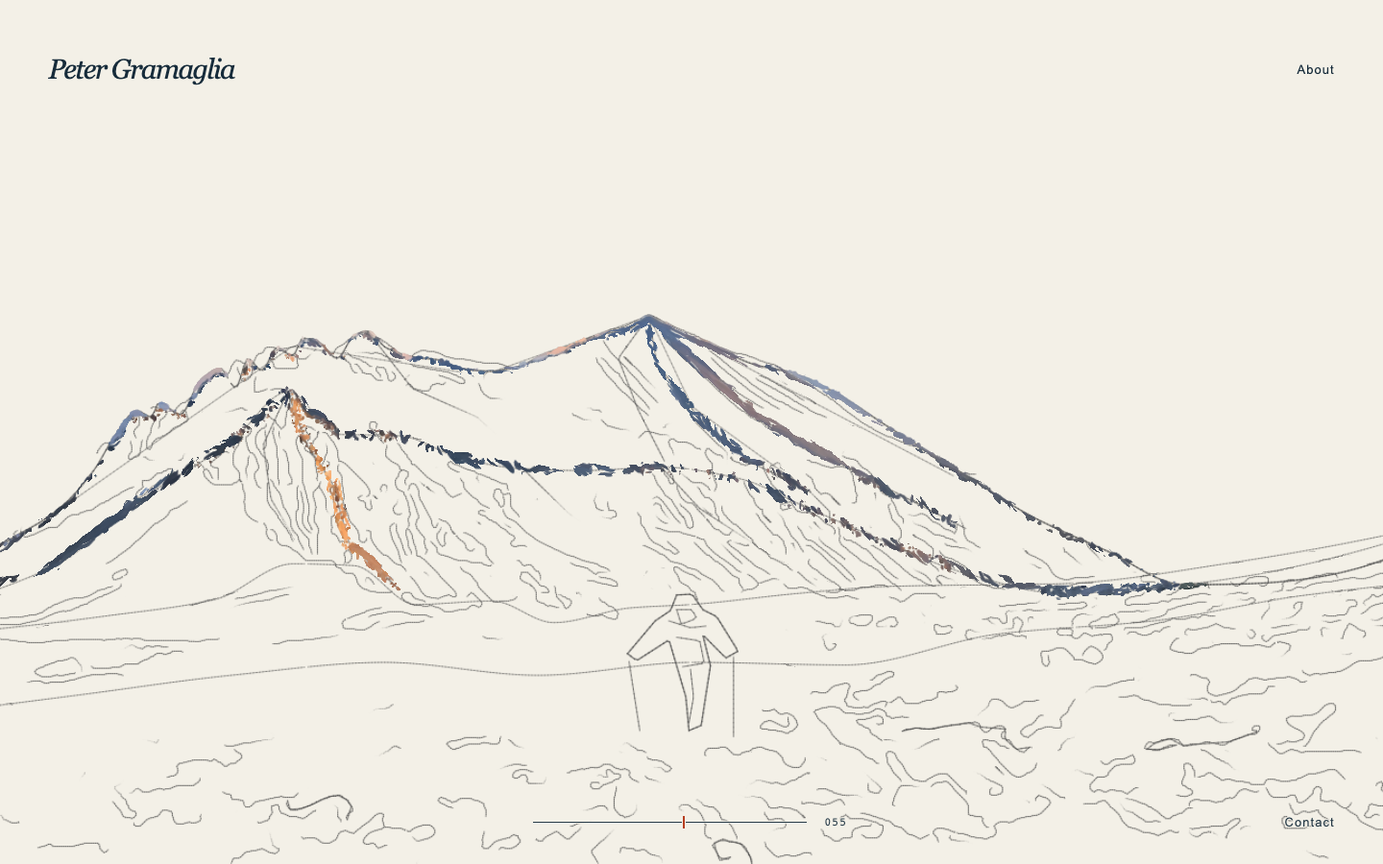
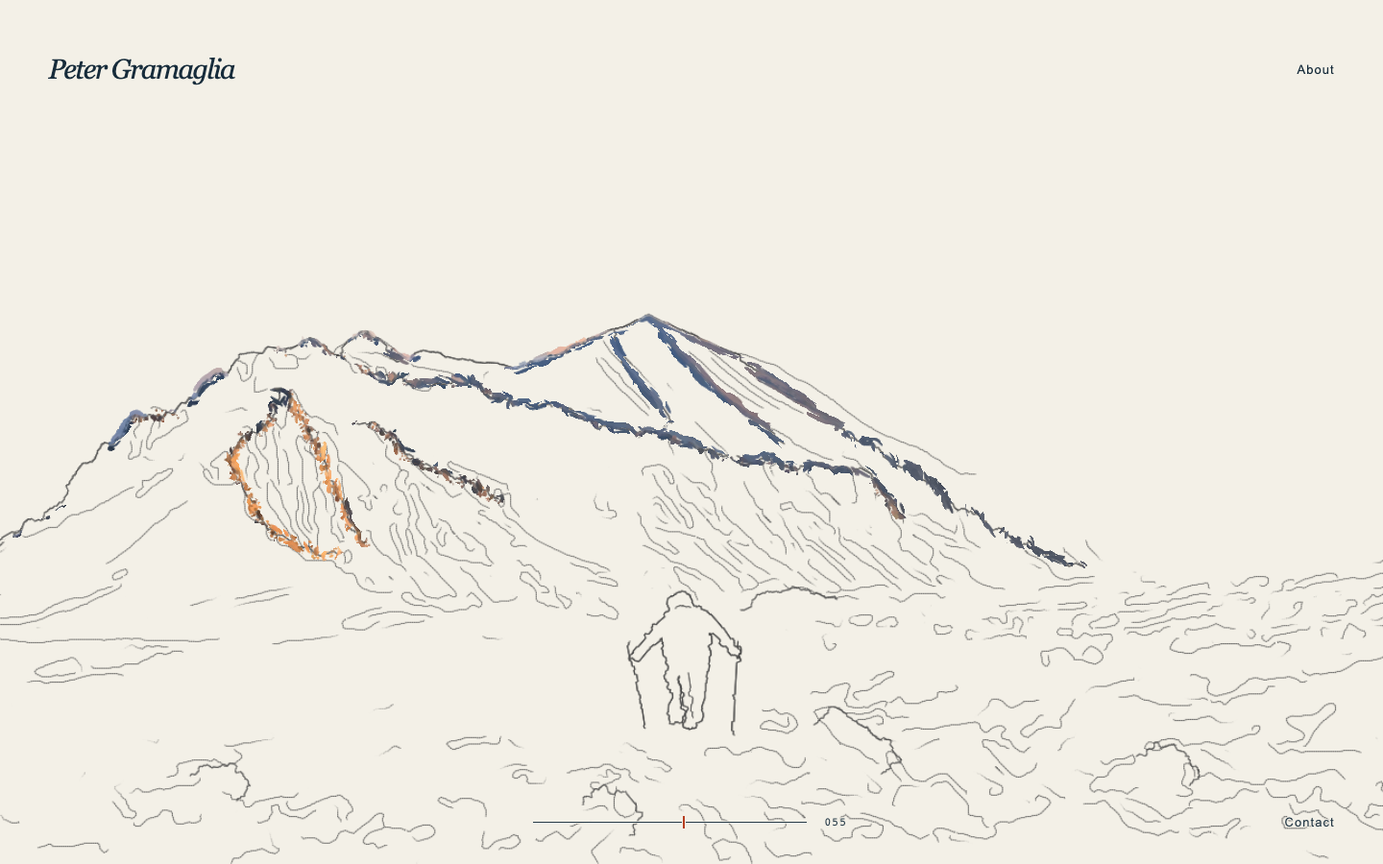
Trace structural drawing contours from the source photographs

diff --git a/tests/browser/landscape.spec.js b/tests/browser/landscape.spec.js
@@ -285,6 +285,38 @@ test('mountain framework precedes the figure and foreground, then detail and col
   }
 });
 
+test('early pigment follows photographic cliff edges instead of old construction bands', async ({ page }) => {
+  await page.setViewportSize({ width: 1440, height: 810 });
+  await page.emulateMedia({ reducedMotion: 'reduce' }); await ready(page);
+  const stages = await page.evaluate(() => {
+    const input = document.querySelector('#resolve'), canvas = document.querySelector('canvas');
+    const gl = canvas.getContext('webgl');
+    // Landmarks inspected on the 1672×941 source photograph, independently
+    // of the generated guides: real cliff tops/perimeters and two old guides
+    // that crossed featureless interiors. Never sample UI text or controls.
+    const landmarks = { cragTop: [743, 466], litCliffEdge: [353, 547],
+      oldCrossFaceLine: [700, 510], oldForegroundBand: [350, 734] };
+    return Object.fromEntries([550, 650].map((value) => {
+      input.value = String(value); input.dispatchEvent(new Event('input', { bubbles: true }));
+      const pixels = new Uint8Array(canvas.width * canvas.height * 4);
+      gl.readPixels(0, 0, canvas.width, canvas.height, gl.RGBA, gl.UNSIGNED_BYTE, pixels);
+      return [value, Object.fromEntries(Object.entries(landmarks).map(([name, [sx, sy]]) => {
+        const cx = Math.round(sx / 1672 * canvas.width), cy = Math.round(sy / 941 * canvas.height);
+        let pigment = 0;
+        for (let y = cy - 5; y <= cy + 5; y++) for (let x = cx - 5; x <= cx + 5; x++) {
+          const i = ((canvas.height - y - 1) * canvas.width + x) * 4;
+          pigment += Math.max(0, Math.abs(3 * pixels[i] - 4 * pixels[i + 1] + pixels[i + 2]) - 5);
+        }
+        return [name, pigment];
+      }))];
+    }));
+  });
+  expect(stages[550].cragTop).toBeGreaterThan(50);
+  expect(stages[550].litCliffEdge).toBeGreaterThan(50);
+  expect(stages[650].oldCrossFaceLine).toBe(0);
+  expect(stages[650].oldForegroundBand).toBe(0);
+});
+
 test('color follows ridges, human and foreground edges, then surface fill and sky', async ({ page }, testInfo) => {
   // Match the desktop artwork aspect ratio so source landmarks map directly
   // to GPU pixels, independently of the UI or responsive crop behavior.

diff --git a/scripts/prepare-strokes.py b/scripts/prepare-strokes.py
@@ -10,6 +10,7 @@ from pathlib import Path
 import importlib.util
 import json
 from asset_revisions import update_revisions
+from source_features import register_features, save_overlays
 import numpy as np
 from PIL import Image, ImageDraw
 from scipy.ndimage import gaussian_filter, sobel, distance_transform_edt, map_coordinates
@@ -83,7 +84,15 @@ def make(name):
     g=geo.GEOMETRY[name]
     size=(1440,810) if name=='desktop' else (900,1200)
     w,h=size
-    photo=Image.open(ROOT/f'assets/{name}/photo.webp').convert('RGB').resize(size,Image.Resampling.LANCZOS)
+    source_photo=Image.open(ROOT/f'assets/{name}/photo.webp').convert('RGB')
+    photo=source_photo.resize(size,Image.Resampling.LANCZOS)
+    registered=register_features(source_photo,name)
+    save_overlays(source_photo,registered,name)
+    feature_scale=np.array(size)/source_photo.size
+    features=[{**feature,'path':feature['path']*feature_scale} for feature in registered]
+    mountain_features=[f for f in features if f['kind'] in ('opening','mountain')]
+    foreground_features=[f for f in features if f['kind']=='foreground']
+    human_features=[f for f in features if f['kind']=='person']
     source=np.asarray(photo,dtype=float)
     source=gaussian_filter(source,(2.2,2.2,0))
     lum=source@np.array([.2126,.7152,.0722])
@@ -95,50 +104,22 @@ def make(name):
     plates[0].preserve_earliest=True
     xs=np.arange(w)/w
     skyline=geo.curve(g['skyline'],xs)*h
-    bounds=[skyline]+[geo.curve(r,xs)*h for r in g['ridges']]
-    bounds[-1]=np.maximum(bounds[-1],h*1.035)
     def sample(p):
         p=np.asarray(p);x=np.clip(p[:,0].astype(int),0,w-1);y=np.clip(p[:,1].astype(int),0,h-1)
         return source[y,x]
-    def points(norm):return np.asarray(norm)*np.array([w,h])
-    def subdivide(p,step=4):
-        p=np.asarray(p);u=np.r_[0,np.cumsum(np.linalg.norm(np.diff(p,axis=0),axis=1))]
-        q=np.linspace(0,u[-1],max(2,int(u[-1]/step)))
-        return np.column_stack((np.interp(q,u,p[:,0]),np.interp(q,u,p[:,1])))
-    # A few open construction gestures establish the mountain at zero. They
-    # intentionally omit the full skyline, foreground, clouds and climber.
-    # Subsequent paths add actual geographic structure over the first half.
-    rough = {
-      'desktop': [[(.08,.60),(.24,.40),(.35,.43)],[(.37,.43),(.472,.365),(.67,.55)],
-                  [(.472,.365),(.50,.47),(.57,.56)]],
-      'mobile': [[(.19,.39),(.439,.332),(.67,.42)],[(.439,.332),(.46,.42),(.58,.48)]]
-    }
-    for line in rough[name]:
-        plates[0].path(subdivide(points(line)),.83,INK,-.09,.045,.40)
-    # First establish only the skyline and principal mountain ridge. The
-    # nearer slope/foreground boundaries join the human in the second phase.
-    for i,line in enumerate(bounds[:-1]):
-        sections=5 if i==0 else 4
-        for section,idx in enumerate(np.array_split(np.arange(0,w,3),sections)):
-            p=np.column_stack((idx,line[idx]))
-            start=(.035+section*.021) if i==0 else (.08+section*.021 if i==1 else .25+(i-2)*.025+section*.013)
-            plates[0].path(p,1.05 if i==0 else .72,INK,start,.055,.76 if i==0 else .48)
-    for i,spur in enumerate(g['spurs']):
-        p=subdivide(points(spur))
-        major=[0,2,3]
-        start=.075+major.index(i)*.023 if i in major else .435+i*.014
-        plates[0].path(p,.85,INK,start,.075,.58)
-    # Cloud gestures are open contours following the prominent cloud bank.
-    clouds = {
-      'desktop': [[(.51,.342),(.56,.294),(.62,.255),(.72,.211),(.83,.169),(.96,.135)],
-                  [(.55,.30),(.66,.284),(.75,.267),(.87,.222),(.99,.181)],
-                  [(.68,.337),(.79,.326),(.9,.317),(1,.30)]],
-      'mobile': [[(.485,.311),(.53,.298),(.58,.276),(.66,.249),(.75,.228),(.85,.199),(1,.166)],
-                 [(.59,.267),(.69,.27),(.78,.257),(.9,.24),(1,.232)],
-                 [(.50,.337),(.61,.336),(.72,.326),(.82,.327),(.96,.315)]]
-    }
-    for i,line in enumerate(clouds[name]):
-        plates[0].path(subdivide(points(line)),.68,INK,.625+i*.028,.07,.38)
+    # Opening gestures are partials of the registered peak edges, not a
+    # separate approximate scaffold. All later structural marks use the same
+    # source paths, preserving crag teeth and disconnected occluding crests.
+    for feature in mountain_features:
+        p=feature['path']
+        if feature['id']=='peak_left':
+            plates[0].path(p[int(len(p)*.4):],.83,INK,-.09,.045,.40)
+        elif feature['id']=='peak_right':
+            plates[0].path(p[:int(len(p)*.3)],.83,INK,-.09,.045,.40)
+    for i,feature in enumerate(mountain_features):
+        p=feature['path'];parts=max(1,int(len(p)/170))
+        for section,indices in enumerate(np.array_split(np.arange(len(p)),parts)):
+            plates[0].path(p[indices],.95,INK,.035+i*.009+section*.012,.05,.67)
     # Trace selected long source edges as individual connected pencil paths.
     # Nonmaximum suppression selects contours; minimum arc length and a cap
     # per region discard photographic grain. These are new ridge/rock/cloud
@@ -204,34 +185,21 @@ def make(name):
         # Reduce pixel-scale stair stepping without erasing a rock's corners.
         p=gaussian_filter(p,(.65,0))[::2]
         plates[0].path(p,.72 if region=='cloud' else .82,INK,start,span,opacity)
-    # A few long source rock edges define foreground scale during phase two;
-    # leave the dense small-rock contour map for the detail phase above.
-    foreground_edges=[]
-    for lo,hi in [(0,.28),(.28,.53),(.53,.78),(.78,1.01)]:
-        candidates=[entry for entry in paths if entry[1]=='rock'
-                    and lo<=entry[2][:,0].mean()/w<hi
-                    and entry[2][:,1].mean()/h>.84]
-        if not candidates:continue
-        _,_,p,_=max(candidates,key=lambda entry:entry[0])
-        ids=np.linspace(0,len(p)-1,min(12,len(p))).astype(int)
-        foreground_edges.append(p[ids])
-    for i,p in enumerate(foreground_edges):
-        plates[0].path(subdivide(p),.95,INK,.265+i*.02,.065,.62)
-    # Phase two establishes the rough full human silhouette and both poles;
-    # facial, clothing and inner-leg detail waits for the detail phase.
-    p=subdivide(points(g['person']+[g['person'][0]]))
-    plates[0].path(p,1.05,INK,.235,.095,.78)
-    person_details={
-      'desktop': [[(.49,.705),(.5,.705),(.503,.715),(.493,.722),(.49,.705)],
-                   [(.485,.718),(.499,.726),(.509,.724)],[(.49,.737),(.505,.741),(.508,.767),(.494,.771)],
-                   [(.499,.774),(.501,.806),(.498,.836)],[(.459,.765),(.466,.845)],[(.527,.76),(.527,.852)]],
-      'mobile': [[(.479,.649),(.498,.649),(.502,.66),(.488,.671),(.479,.649)],
-                  [(.47,.671),(.49,.688),(.516,.679)],[(.479,.692),(.514,.697),(.516,.719),(.485,.72)],
-                  [(.5,.723),(.505,.75),(.499,.777)],[(.415,.705),(.438,.794)],[(.563,.707),(.56,.787)]]
-    }
-    for i,line in enumerate(person_details[name]):
-        start=.27+(i-4)*.025 if i>=4 else .435+i*.018
-        plates[0].path(subdivide(points(line)),.8,INK,start,.065 if i>=4 else .05,.66)
+    # Background construction also follows actual source cloud edges. The
+    # old smooth cloud-bank diagonals are not structural features in the photo.
+    cloud_candidates=[entry for entry in paths if entry[1]=='cloud'
+                      and entry[2][:,1].mean()<h*.35 and entry[2][:,0].mean()>w*.40]
+    cloud_candidates=sorted(cloud_candidates,key=lambda entry:len(entry[2]),reverse=True)[:3]
+    for i,(_,_,p,_) in enumerate(cloud_candidates):
+        plates[0].path(p,.68,INK,.625+i*.028,.07,.38)
+    # Phase two adds only actual local rock/slope edges and the registered
+    # climber silhouette/poles. No full-width foreground guide crosses them.
+    for i,feature in enumerate(foreground_features):
+        plates[0].path(feature['path'],.95,INK,.26+i*.018,.06,.62)
+    for i,feature in enumerate(human_features):
+        plates[0].path(feature['path'],1.05,INK,.235+i*.028,.095 if i==0 else .065,.78)
+    for i,feature in enumerate(f for f in features if f['kind']=='person_detail'):
+        plates[0].path(feature['path'],.8,INK,.435+i*.018,.05,.66)
     print(name,'structural paths',counts,flush=True)
     # Keep the approved distant-land orientation field independent of the
     # closer, finer photo structure used for the new terrain brushes.
@@ -288,17 +256,16 @@ def make(name):
         mask=Image.new('L',size);draw=ImageDraw.Draw(mask)
         for line in lines:draw.line([tuple(q) for q in line],fill=255,width=1)
         return distance_transform_edt(np.asarray(mask)==0)
-    ridge_lines=[points(g['skyline']),points(g['ridges'][0])]
-    ridge_lines.extend(points(g['spurs'][i]) for i in [0,2,3])
+    ridge_lines=[f['path'] for f in mountain_features]
     ridge_distance=line_distance(ridge_lines)
-    figure_lines=[points(g['person']+[g['person'][0]])]
-    figure_lines.extend(points(line) for line in person_details[name][-2:])
+    figure_lines=[f['path'] for f in human_features]
     figure_distance=line_distance(figure_lines)
     figure_interior_mask=Image.new('L',size)
-    ImageDraw.Draw(figure_interior_mask).polygon([tuple(q) for q in points(g['person'])],fill=255)
+    silhouette=next(f['path'] for f in human_features if f['id']=='human')
+    ImageDraw.Draw(figure_interior_mask).polygon([tuple(q) for q in silhouette],fill=255)
     figure_interior=np.asarray(figure_interior_mask)>0
-    foreground_lines=[np.column_stack((np.arange(w)[::3],line[::3])) for line in bounds[2:-1]]
-    foreground_distance=line_distance(foreground_lines+foreground_edges)
+    foreground_lines=[f['path'] for f in foreground_features]
+    foreground_distance=line_distance(foreground_lines)
     def stroke_jitter(p):
         x,y=np.mean(p,axis=0)
         return (np.sin(x*12.9898+y*78.233)*43758.5453)%1

diff --git a/scripts/source_features.py b/scripts/source_features.py
@@ -1,0 +1,118 @@
+"""Photo-registered structural paths, independent of the paint partition.
+
+Anchors are in the upright source photograph's pixel coordinates. They identify
+separate visible features, never interpolated full-scene contour bands. A narrow
+normal corridor follows the strongest coherent source edge between anchors.
+"""
+import json
+from pathlib import Path
+import numpy as np
+from PIL import Image, ImageDraw
+from scipy.ndimage import gaussian_filter, sobel, map_coordinates
+
+# id, kind, anchor pixels; mountain entries tagged opening seed the zero state.
+FEATURES={
+'desktop': {'size':(1672,941),'paths':[
+ ('west_skyline','mountain',[(0,631),(93,577),(142,554),(184,500),(232,451),(260,453),(299,427),(324,402),(341,392),(358,381),(388,385),(420,369),(451,391),(479,362),(514,393),(540,383),(600,399),(625,401),(655,393)]),
+ ('peak_left','opening',[(655,393),(686,381),(706,376),(726,363),(747,360),(766,351),(790,344)]),
+ ('peak_right','opening',[(790,344),(819,360),(845,373),(866,382),(896,397),(926,411),(956,433),(995,464),(1040,490),(1085,521),(1120,547),(1166,575),(1214,597),(1260,618)]),
+ ('peak_shadow_rib','mountain',[(749,360),(760,389),(779,414),(798,439),(812,460)]),
+ ('peak_light_rib','mountain',[(794,350),(819,380),(847,411),(879,439),(908,462),(937,482)]),
+ ('west_crag_crest','mountain',[(480,396),(508,411),(541,418),(567,419),(594,412),(615,429),(642,440),(663,443),(684,440)]),
+ ('middle_crag_crest','mountain',[(684,440),(711,453),(743,466),(769,470),(804,471),(827,481),(852,489),(875,492)]),
+ ('east_crag_crest','mountain',[(885,495),(903,501),(914,495),(928,500),(941,509),(954,507),(970,503),(984,511),(1004,509),(1018,513),(1034,522),(1048,536),(1068,556)]),
+ ('lit_cliff_west_edge','mountain',[(391,429),(381,453),(365,468),(347,477),(333,490),(338,516),(353,547),(374,570),(402,591),(430,603),(450,601)]),
+ ('lit_cliff_east_edge','mountain',[(393,430),(406,447),(418,465),(430,487),(440,514),(453,544),(463,576),(473,595)]),
+ ('near_crag_crest','mountain',[(472,464),(489,460),(506,474),(524,492),(544,503),(562,513),(581,518),(604,533),(626,542)]),
+ ('behind_hiker_rock','foreground',[(887,660),(916,646),(944,640),(971,647),(993,655)]),
+ ('left_stone','foreground',[(289,843),(309,832),(336,835),(355,855),(345,874)]),
+ ('center_stone','foreground',[(717,876),(739,860),(762,865),(781,888),(769,910)]),
+ ('right_boulder','foreground',[(968,788),(989,775),(1017,789),(1048,806),(1065,827),(1043,844)]),
+ ('far_right_stone','foreground',[(1320,824),(1342,809),(1370,817),(1391,838),(1381,857)]),
+ ('human','person',[(813,648),(823,645),(835,647),(842,660),(855,665),(868,680),(882,701),(890,708),(886,718),(878,714),(863,697),(854,689),(856,719),(852,741),(852,760),(845,780),(841,793),(832,795),(826,789),(830,776),(828,755),(823,736),(822,756),(826,775),(822,786),(814,786),(812,778),(813,757),(809,738),(806,718),(804,695),(788,708),(779,719),(769,717),(768,710),(782,694),(797,675),(811,663),(813,648)]),
+ ('left_pole','person',[(766,699),(774,741),(782,793)]),
+ ('right_pole','person',[(887,698),(884,751),(882,800)]),
+ ('hood_brim','person_detail',[(817,660),(826,657),(835,660)]),
+ ('inner_leg','person_detail',[(832,732),(836,758),(834,781)]),
+]},
+'mobile': {'size':(1200,1600),'paths':[
+ ('west_skyline','mountain',[(0,556),(17,548),(38,563),(68,575),(100,593),(120,586),(145,583),(174,595),(205,605),(239,618),(268,626),(297,621)]),
+ ('peak_left','opening',[(297,621),(337,604),(371,596),(404,581),(438,568),(469,558),(500,549),(527,531)]),
+ ('peak_right','opening',[(527,531),(558,548),(589,559),(622,577),(663,590),(705,609),(744,630),(784,655),(827,679),(867,704),(915,738),(962,759),(1015,787),(1061,810)]),
+ ('peak_shadow_rib','mountain',[(465,559),(477,593),(494,621),(522,657),(554,688),(572,713)]),
+ ('peak_light_rib','mountain',[(532,541),(550,576),(582,613),(614,648),(648,680),(685,713),(718,737)]),
+ ('west_crag_crest','mountain',[(0,618),(29,626),(52,625),(78,643),(108,648),(138,636),(164,638),(185,649),(213,638),(235,653),(259,681),(282,691)]),
+ ('middle_crag_crest','mountain',[(282,691),(313,688),(339,698),(361,689),(385,716),(414,726),(442,729),(464,731),(489,727),(514,737),(544,736),(569,749),(597,755)]),
+ ('east_crag_crest','mountain',[(597,755),(621,771),(649,775),(675,788),(701,781),(726,782),(751,793),(773,796),(800,789),(823,798),(847,807),(872,805),(893,824),(917,844),(942,863)]),
+ ('lit_cliff_edge','mountain',[(1,696),(24,711),(43,736),(65,751),(81,774),(100,791),(113,817),(129,842),(142,872),(153,905),(161,935),(180,950)]),
+ ('near_crag_crest','mountain',[(0,813),(25,826),(48,845),(73,857),(96,874),(118,885),(143,889),(167,904),(190,908),(217,930),(241,944)]),
+ ('behind_hiker_rock','foreground',[(636,1025),(668,1011),(703,996),(735,991),(766,1001)]),
+ ('left_stone','foreground',[(220,1353),(250,1330),(282,1336),(309,1359),(314,1381)]),
+ ('center_stone','foreground',[(381,1450),(416,1412),(445,1416),(468,1456),(449,1490)]),
+ ('right_boulder','foreground',[(796,1255),(827,1232),(857,1238),(890,1267),(924,1294),(945,1327),(934,1352)]),
+ ('right_stone','foreground',[(1010,1378),(1040,1358),(1075,1367),(1103,1396),(1091,1422)]),
+ ('human','person',[(562,1030),(565,1021),(580,1016),(596,1018),(604,1034),(616,1040),(637,1054),(654,1077),(671,1102),(681,1112),(686,1124),(678,1133),(666,1127),(656,1107),(639,1091),(626,1084),(630,1120),(628,1154),(625,1183),(618,1219),(615,1241),(627,1257),(607,1258),(596,1250),(585,1255),(572,1250),(581,1226),(580,1196),(573,1173),(568,1142),(564,1117),(556,1096),(538,1108),(520,1124),(507,1134),(497,1132),(491,1121),(498,1110),(521,1081),(547,1055),(559,1044),(562,1030)]),
+ ('left_pole','person',[(494,1097),(506,1172),(525,1262)]),
+ ('right_pole','person',[(677,1095),(677,1167),(672,1260)]),
+ ('hood_brim','person_detail',[(570,1039),(584,1035),(598,1038)]),
+ ('inner_leg','person_detail',[(597,1158),(599,1194),(594,1232)]),
+]}}
+
+
+def register_features(photo,name):
+    """Follow source edges within a small corridor around each visual anchor."""
+    w,h=photo.size;spec=FEATURES[name];scale=np.array([w,h])/spec['size']
+    tone=gaussian_filter(np.asarray(photo,dtype=float)@np.array([.2126,.7152,.0722]),.65)
+    gx=sobel(tone,axis=1)/8;gy=sobel(tone,axis=0)/8
+    features=[]
+    for label,kind,anchors in spec['paths']:
+        anchors=np.asarray(anchors,dtype=float)*scale
+        arc=np.r_[0,np.cumsum(np.linalg.norm(np.diff(anchors,axis=0),axis=1))]
+        u=np.linspace(0,arc[-1],max(3,int(arc[-1])))
+        base=np.column_stack([np.interp(u,arc,anchors[:,i]) for i in range(2)])
+        tangent=gaussian_filter(np.gradient(base,axis=0),(1.1,0))
+        tangent/=np.maximum(np.linalg.norm(tangent,axis=1)[:,None],1e-8)
+        normal=np.column_stack([-tangent[:,1],tangent[:,0]])
+        radius=3 if kind.startswith('person') else 6
+        offsets=np.arange(-radius,radius+1,dtype=float)
+        samples=base[:,None,:]+normal[:,None,:]*offsets[None,:,None]
+        coords=[samples[:,:,1],samples[:,:,0]]
+        edge=np.abs(map_coordinates(gx,coords,order=1,mode='nearest')*normal[:,0,None]+
+                    map_coordinates(gy,coords,order=1,mode='nearest')*normal[:,1,None])
+        cost=-1.6*np.log1p(edge)+.035*offsets[None,:]**2
+        # Coherent normal offsets retain jagged rock edges without jumping to
+        # unrelated nearby texture. Each feature terminates at its own anchors.
+        n,m=cost.shape;back=np.zeros((n,m),dtype=np.int16);previous=cost[0].copy()
+        transitions=.22*(offsets[:,None]-offsets[None,:])**2
+        transitions[np.abs(offsets[:,None]-offsets[None,:])>2]=1e6
+        for j in range(1,n):
+            candidates=previous[:,None]+transitions
+            back[j]=np.argmin(candidates,axis=0)
+            previous=cost[j]+np.min(candidates,axis=0)
+        choices=np.empty(n,dtype=int);choices[-1]=np.argmin(previous)
+        for j in range(n-1,0,-1):choices[j-1]=back[j,choices[j]]
+        path=samples[np.arange(n),choices]
+        if np.linalg.norm(anchors[0]-anchors[-1])<1:path[-1]=path[0]
+        features.append({'id':label,'kind':kind,'path':path,
+                         'mean_gradient':float(np.mean(edge[np.arange(n),choices]))})
+    return features
+
+
+def save_overlays(photo,features,name,directory='/tmp/resolve-source-features'):
+    directory=Path(directory);directory.mkdir(parents=True,exist_ok=True)
+    overlay=photo.convert('RGB').copy();draw=ImageDraw.Draw(overlay)
+    colors={'opening':(255,100,60),'mountain':(255,100,60),'foreground':(70,255,240),
+            'person':(130,255,80),'person_detail':(255,240,80)}
+    for i,feature in enumerate(features):
+        p=feature['path'];draw.line([tuple(q) for q in p],fill=colors[feature['kind']],width=1)
+        q=p[len(p)//2];draw.text(tuple(q+2),str(i),fill='white',stroke_width=1,stroke_fill='black')
+    overlay.save(directory/f'{name}-features-overlay.png')
+    photo.save(directory/f'{name}-source.png')
+    (directory/f'{name}-features.json').write_text(json.dumps([
+        {**f,'path':f['path'].round(2).tolist()} for f in features],indent=2)+'\n')
+
+if __name__=='__main__':
+    root=Path(__file__).resolve().parents[1]
+    for name in FEATURES:
+        photo=Image.open(root/f'assets/{name}/photo.webp').convert('RGB')
+        save_overlays(photo,register_features(photo,name),name)

diff --git a/docs/review-notes.md b/docs/review-notes.md
@@ -108,3 +108,11 @@ The user's 65-percent screenshot showed the previous patch-based reveal while fr
 Added a checkout-rooted preview server that sends no-store for every resource and ignores conditional validators, preventing stale 304 reuse after same-second rewrites. The manifest now records per-file content hashes; the renderer and initial finished-image fallbacks use revisioned URLs, and the manifest is fetched without caching. The generator updates revisions after writing the complete artwork; a standalone updater supports other authoring paths. Static checks reject stale hashes. Already open pages still require reloading to replace decoded canvas textures.
 
 An independent Astra high integration review approved the fix and independently checked all fourteen asset hashes, conditional HTTP behavior, generator integration, and failure routes. Validation: 10 Node tests and 19 Chrome browser tests pass, including revisioned asset requests, reload behavior, old conditional requests, GPU color hierarchy, and fallback paths. A separate fresh browser capture at http://localhost:4173, 1440×790, shows colored ridge, human, and foreground outlines at 65 percent with open interiors. Drawing image bytes were unchanged by this delivery fix.
+
+## Source-registered prominent contours
+
+Replaced the loosely authored structural guides with individually traced photographic features. Old full-width foreground bands and smooth cross-face mountain curves were displaced from real edges. Native-photo anchors plus a narrow coherent edge search now follow actual crag crests, peak channels, cliff light/shadow boundaries, local boulders, and the climber. Pencil structure and early color timing share the same scaled paths. The opening sketch and initial cloud contours also use source features.
+
+Independent Astra high visual review approved both native-photo overlays and the final desktop/portrait browser stages. Independent rendering review approved coordinate scaling, closed silhouettes, shared pencil/color paths, valid timing, and endpoint preservation. Source photographs, colored RGBA plates, and finished paintings are byte-identical to the preceding revision. Only pencil artwork and timing maps changed, with manifest revisions refreshed.
+
+Validation: 10 Node tests and 20 Chrome browser tests pass. A new GPU regression samples independently identified photographic cliff landmarks and locations of the old invented bands. It fails against the preceding assets (no early pigment on the actual cliff crest) and passes with the correction: real edges have early color while misplaced bands remain unpainted. Existing drawing-order, mobile, fallback, orientation, cache, endpoint, and interaction checks pass. Fresh source-aspect captures and the native overlays were inspected together at 40/55/65 percent. One auxiliary capture timed out while resizing alongside other browser work; a focused repeat completed with the mobile renderer ready, and the full responsive tests passed.

diff --git a/README.md b/README.md
@@ -41,6 +41,7 @@ The [stroke revision](docs/stroke-revision.md) describes the current drawing beh
 - `src/interaction.js`, `src/main.js`: direct manipulation, frame-independent damping, lifecycle, reduced motion.
 - `src/about.js`: progressive native modal; biography remains ordinary HTML without JavaScript.
 - `assets/`: three timed stroke layers per composition, finished-drawing fallbacks, source photographs, manifest, and favicon.
+- `scripts/source_features.py`: separate photographic crest, cliff, boulder, and human contours, registered to source edges for the opening sketch and first colored strokes.
 
 There are two aspect-specific drawing sets. The desktop composition uses Peter's approved AI-expanded panorama, with the left ridge corrected against a second reference photograph. The mobile drawing is based on the original portrait photograph. Generated edges are disclosed in About. Contour-like marks are an artistic drawing, not elevation data. No coordinates, EXIF, or camera/location metadata are retained in the published derivatives.
 
@@ -59,6 +60,8 @@ python3 -m venv /tmp/resolve-assets-env
 The stroke generator samples the checked-in `assets/{desktop,mobile}/photo.webp` authoring inputs, writes lossless RGBA ink plates and PNG timing maps, and produces `/tmp/resolve-stages-preview.jpg` for art review. `prepare-assets.py` retains the original source-normalization helpers and ridge geometry used by the stroke generator; it belongs to the first iteration and is not a deployment step. Inspect stroke growth and all checkpoints whenever changing inputs or parameters; the geometry is specific to this landscape.
 
 The generator also records content hashes for every delivered image in the manifest. Runtime image URLs use those revisions; the manifest is fetched without caching. If editing an asset outside the generator, run `python3 scripts/asset_revisions.py` afterward. The static checks reject outdated hashes. Finish asset generation before previewing or deploying a revision.
+
+Structural features use anchors in each source photograph's native pixel coordinates. A narrow search follows coherent image edges between those anchors. Separate cliff crests terminate at their visible ends; foreground structure uses individual rock outlines, without full-width construction bands. Run the asset environment's Python on `scripts/source_features.py` to produce photo-registration overlays under `/tmp/resolve-source-features/`. Review those overlays as well as rendered stages when changing a feature: a strong image gradient alone does not establish that a path represents the intended landform.
 
 ## Limits
 

diff --git a/docs/stroke-revision.md b/docs/stroke-revision.md
@@ -65,3 +65,11 @@ Only the pencil plate and its timing change for this refinement. The colored str
 Color now repeats the construction order, rather than filling the mountain and human immediately after the pencil stages. Existing colored strokes close to major ridge lines arrive first. Strokes along the human silhouette, poles, and defining foreground edges arrive next. Mountain faces, the human's interior, ground surfaces, and compact detail strokes wait until those colored boundaries are established. Distant terrain, clouds, and the final blue-sky sequence retain their later timing.
 
 Narrow line-distance bands classify existing strokes without changing their geometry or palette. Classification includes the stroke width and most of its path, so a large mark merely touching a boundary cannot reveal a broad surface early. Figure priority uses its outline, not a filled polygon. The final painting and all pencil assets remain unchanged. GPU tests measure actual pigment independently from gray pencil to verify the color hierarchy.
+
+## Register prominent contours to the source photograph
+
+The structural drawing now follows individually identified photographic features. `scripts/source_features.py` stores native-image anchor coordinates for separate skyline segments, peak channels, jagged occluding crag crests, sunlit cliff perimeters, local boulders, and the climber's silhouette and poles. A coherent edge search refines each path within a narrow normal corridor. The paths are registered at source resolution and scaled with the photograph into the delivered composition.
+
+The opening gestures, structural pencil stage, and early color priority reuse these exact paths. Foreground structure consists of local rock silhouettes and the short crest behind the climber. Source cloud contours also replace the earlier smooth cloud gestures. The mountain-first, human/foreground-second, surface-fill-third order remains. The existing paint partition and colored brush geometry stay intact, preserving the finished painting byte for byte.
+
+Source-registration overlays are generated under `/tmp/resolve-source-features/`. Checked-in [desktop](previews/desktop-contour-registration.jpg) and [portrait](previews/mobile-contour-registration.jpg) overlays document the reviewed correspondence: orange marks mountain structure, cyan foreground rocks, and green the climber. Visual review checks which landform a contour represents as well as its pixel alignment.
